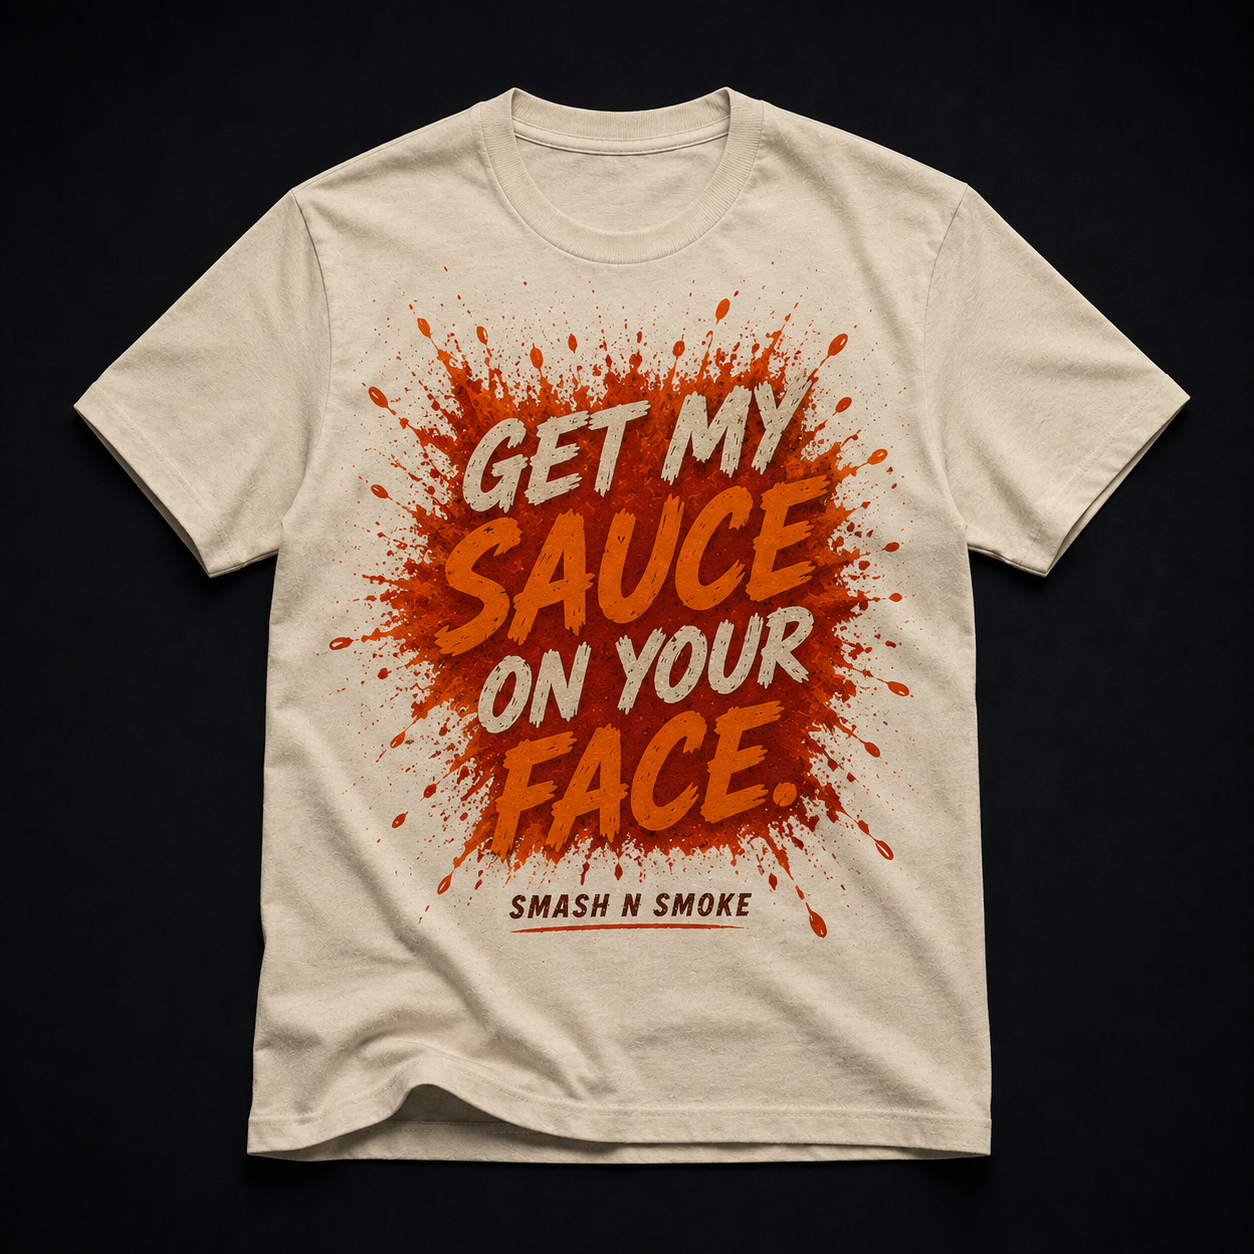
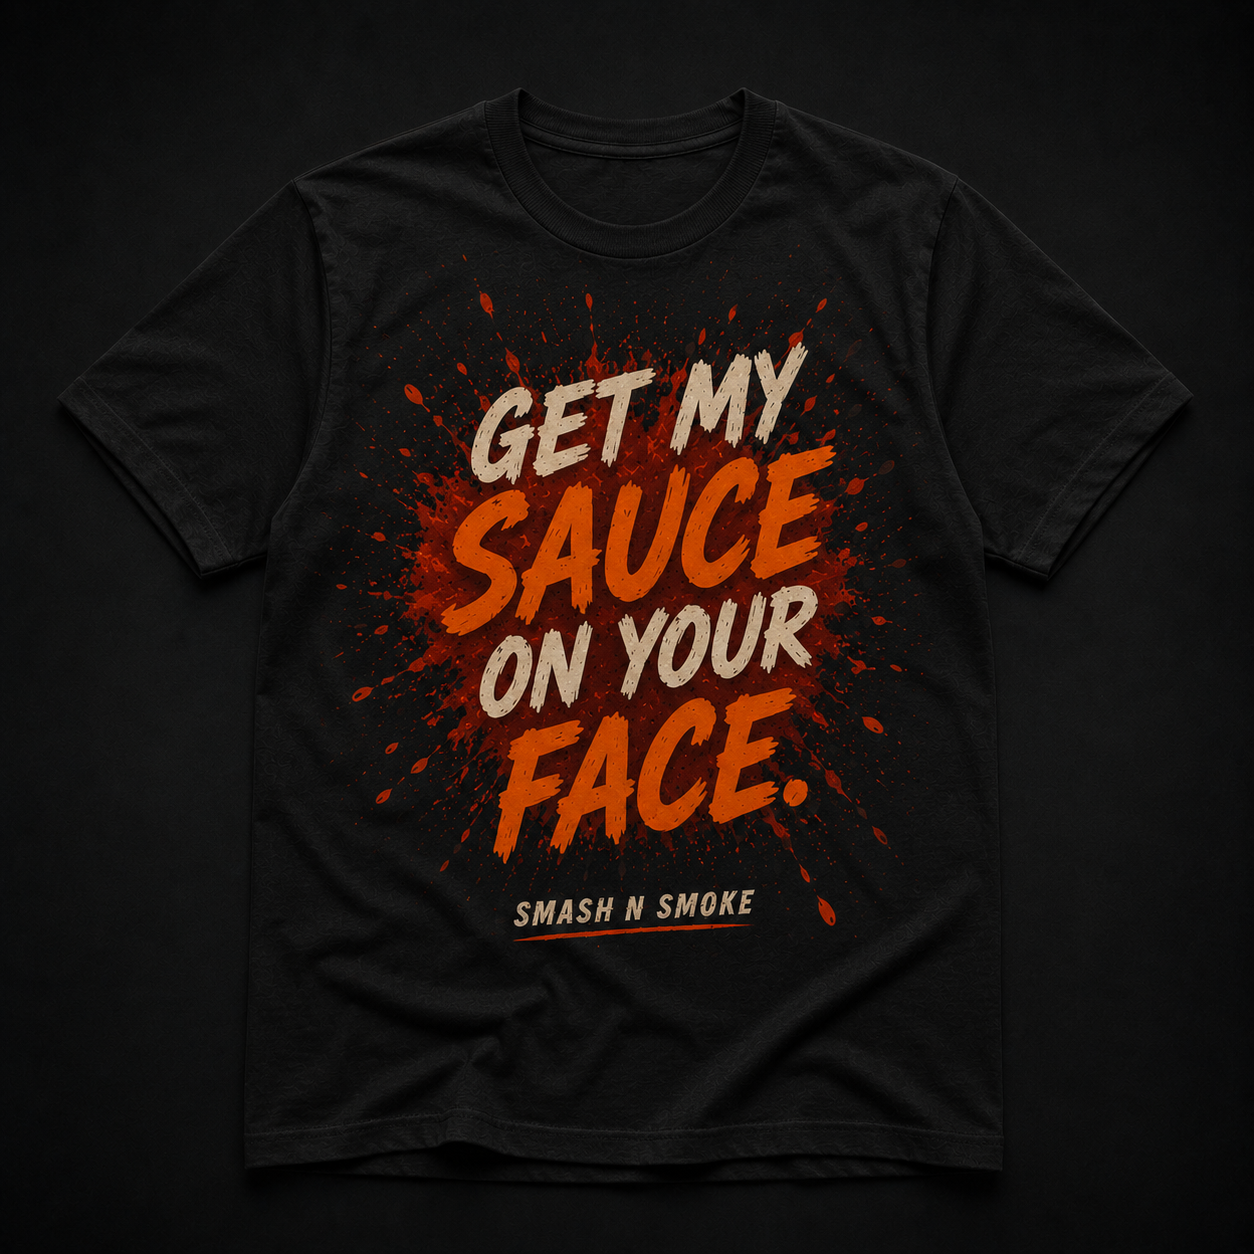
merch page updated links

diff --git a/merch.html b/merch.html
@@ -663,10 +663,10 @@ img{max-width:100%;display:block}
   <div class="section-head">
     <div class="eyebrow">Product Drops</div>
     <h2 class="section-title">Wear The Sauce</h2>
-    <p class="section-sub">Realistic concept mockups for the first merch run. Use the dropdowns on each item to preview color and slogan options.</p>
+    <p class="section-sub">Realistic concept mockups for the first merch run. Use the dropdowns on each item to preview every available color and slogan option.</p>
   </div>
 
-  <div class="how-it-works"><strong>How this works:</strong> Pick a color. Pick a slogan. The image above that item changes to match the selection where a preview exists.</div>
+  <div class="how-it-works"><strong>How this works:</strong> Pick a color. Pick a slogan. The image above that item changes to match the selection.</div>
 
   <div class="drop-grid">
 
@@ -892,17 +892,28 @@ img{max-width:100%;display:block}
 const previewImages = {
   tee: {
     "black|my-sauce-your-face": "images/merch/options/tee-black-my-sauce-your-face.png",
-    "red|sauce-happens": "images/merch/options/tee-red-sauce-happens.png",
-    "cream|get-my-sauce": "images/merch/options/tee-cream-get-my-sauce.png",
+    "black|sauce-happens": "images/merch/options/tee-black-sauce-happens.png",
+    "black|get-my-sauce": "images/merch/options/tee-black-get-my-sauce.png",
     "black|smash-n-smoke": "images/merch/options/tee-black-smash-n-smoke.png",
+    "red|my-sauce-your-face": "images/merch/options/tee-red-my-sauce-your-face.png",
+    "red|sauce-happens": "images/merch/options/tee-red-sauce-happens.png",
+    "red|get-my-sauce": "images/merch/options/tee-red-get-my-sauce.png",
+    "red|smash-n-smoke": "images/merch/options/tee-red-smash-n-smoke.png",
+    "cream|my-sauce-your-face": "images/merch/options/tee-cream-my-sauce-your-face.png",
+    "cream|sauce-happens": "images/merch/options/tee-cream-sauce-happens.png",
+    "cream|get-my-sauce": "images/merch/options/tee-cream-get-my-sauce.png",
     "cream|smash-n-smoke": "images/merch/options/tee-cream-smash-n-smoke.png"
   },
   koozie: {
     "black|everyone-loves-my-sauce": "images/merch/options/koozie-black-everyone-loves-my-sauce.png",
+    "black|sauce-happens": "images/merch/options/koozie-black-sauce-happens.png",
+    "red|everyone-loves-my-sauce": "images/merch/options/koozie-red-everyone-loves-my-sauce.png",
     "red|sauce-happens": "images/merch/options/koozie-red-sauce-happens.png"
   },
   hat: {
     "blue|ask-me-about-my-sauce": "images/merch/options/hat-blue-ask-me-about-my-sauce.png",
+    "blue|bold-flavor": "images/merch/options/hat-blue-bold-flavor.png",
+    "black|ask-me-about-my-sauce": "images/merch/options/hat-black-ask-me-about-my-sauce.png",
     "black|bold-flavor": "images/merch/options/hat-black-bold-flavor.png"
   },
   stickers: {
@@ -913,8 +924,9 @@ const previewImages = {
   },
   smash: {
     "black|smash-n-smoke": "images/merch/options/tee-black-smash-n-smoke.png",
-    "cream|get-my-sauce": "images/merch/options/tee-cream-get-my-sauce.png",
-    "cream|smash-n-smoke": "images/merch/options/tee-cream-smash-n-smoke.png"
+    "black|get-my-sauce": "images/merch/options/tee-black-get-my-sauce.png",
+    "cream|smash-n-smoke": "images/merch/options/tee-cream-smash-n-smoke.png",
+    "cream|get-my-sauce": "images/merch/options/tee-cream-get-my-sauce.png"
   }
 };
 
@@ -937,9 +949,11 @@ function updateCard(card) {
   const saying = card.querySelector(".product-saying");
   const options = previewImages[product] || {};
   const key = `${color}|${slogan}`;
-  const fallback = Object.values(options)[0];
+  const imagePath = options[key];
 
-  img.src = options[key] || fallback;
+  if (imagePath) {
+    img.src = imagePath;
+  }
   img.alt = `${card.querySelector(".product-name").textContent} preview`;
   saying.textContent = `“${sloganLabels[slogan] || slogan}”`;
 }
